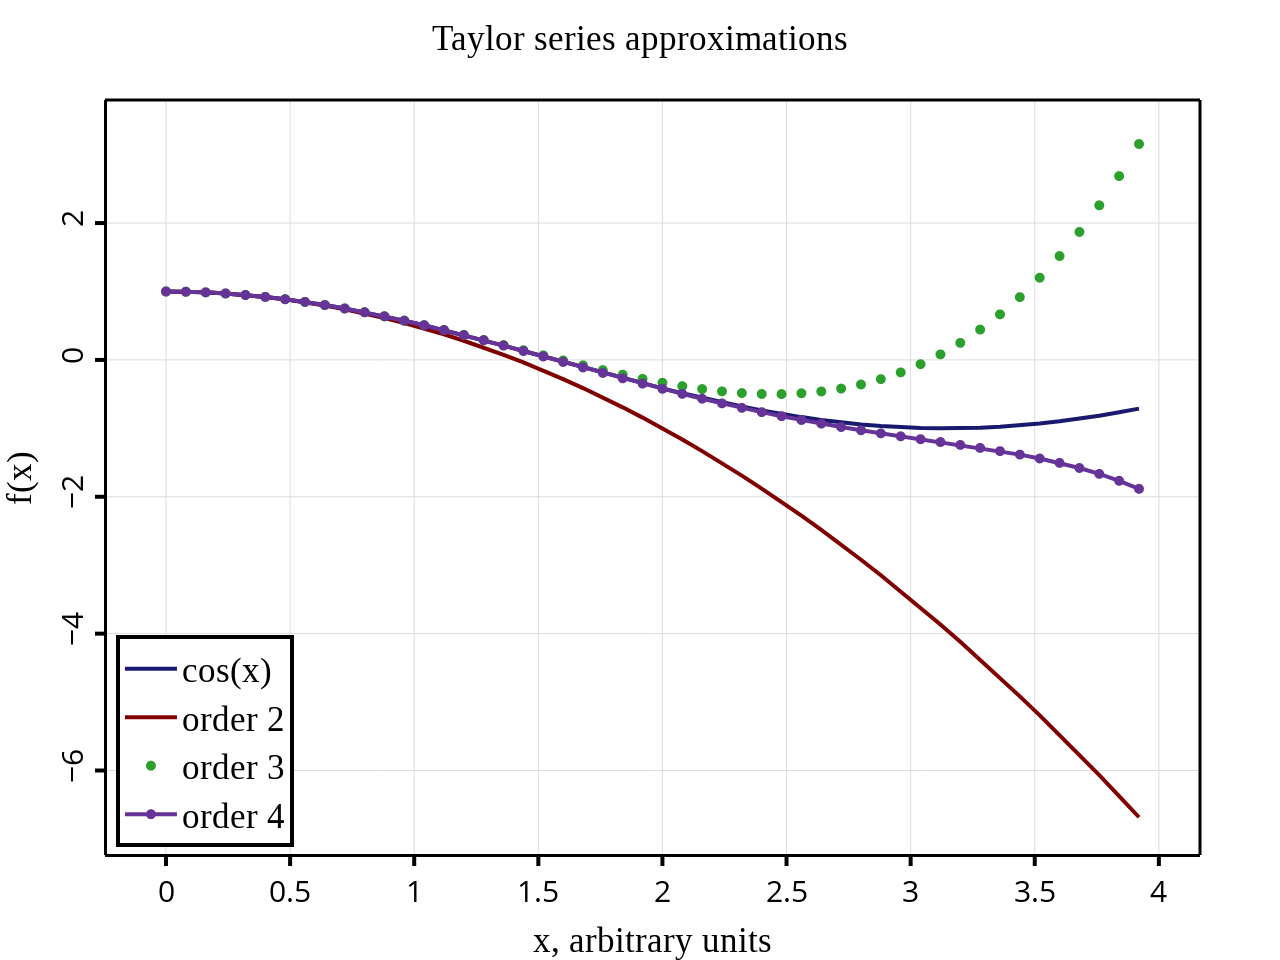
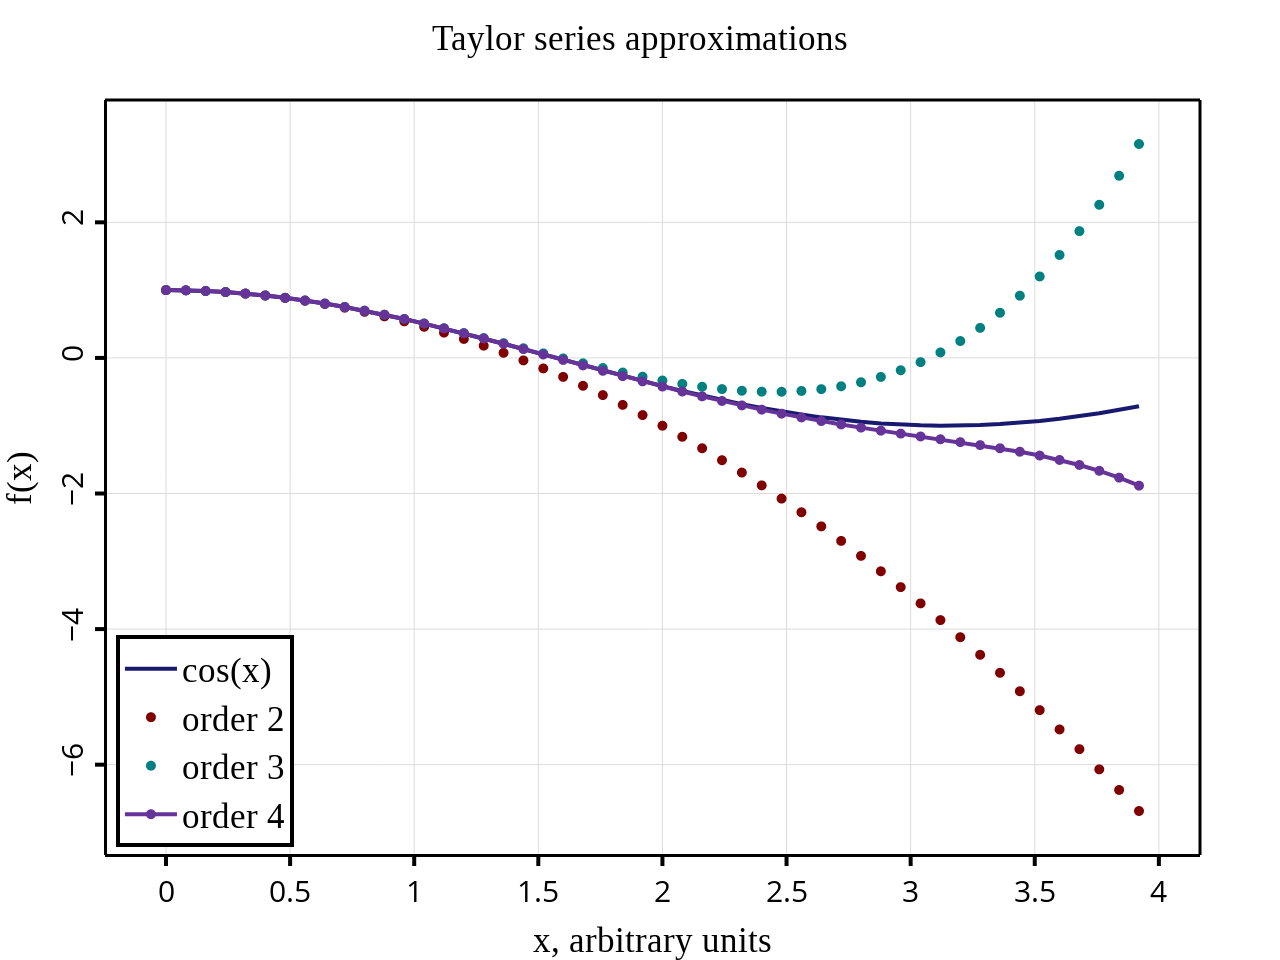
Improved some stuff

diff --git a/best/src/main.rs b/best/src/main.rs
@@ -30,8 +30,9 @@ fn main() {
     // change legend alignments or plotting mode
     use plot::{LegendAl, LineOrPoints};
     plot_par.legend_al = LegendAl::BottomLeft;
-    plot_par.line_or_points = vec![LineOrPoints::Line, LineOrPoints::Line, LineOrPoints::Points, LineOrPoints::LineAndPoints];
+    plot_par.line_or_points = vec![LineOrPoints::Line, LineOrPoints::Points, LineOrPoints::Points, LineOrPoints::LineAndPoints];
     //plot
     plot::line_plot(&vec![x.clone(); 4], &vec![y1.clone(), y2.clone(), y3.clone(), y4.clone()], &plot_par);
     file::save_columns_to_file(&vec![x, y1, y2, y3, y4], "results", "taylor.dat");
+    
 }

diff --git a/best/src/plot.rs b/best/src/plot.rs
@@ -86,7 +86,7 @@ pub fn line_plot(x: &Vec<Vec<f64>>, y: &Vec<Vec<f64>>, plot_par: &PlotPar) {
                     Scatter::new(x[l].clone(), y[l].clone())
                         .name(&plot_par.legends[l])
                         .mode(Mode::Markers)
-                        .marker(Marker::new().size(msize).symbol(MarkerSymbol::Circle)),
+                        .marker(Marker::new().size(msize).color(linecol[l]).symbol(MarkerSymbol::Circle)),
                 )
             },
             LineOrPoints::LineAndPoints => {
